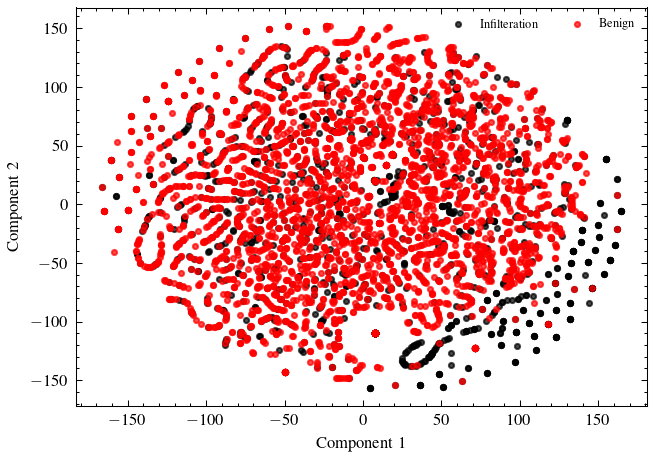
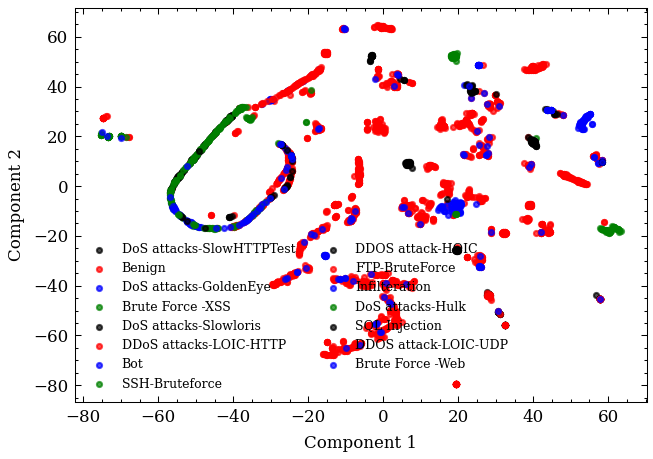
Track figures, ignore data, and add requirements

diff --git a/results.md b/results.md
@@ -2,60 +2,68 @@
 
 ## 1. 实验配置
 
-本项目基于 CSE-CIC-IDS2018 的单日数据（`Thursday-01-03-2018_TrafficForML_CICFlowMeter.csv`）开展对比实验。数据经清洗后共有 328,181 条流记录，其中正常流量（Benign）235,778 条、攻击流量（Infilteration）92,403 条。按 80%/20% 分层划分得到训练集 262,544 条、测试集 65,637 条；为平衡计算开销与可复现性，训练集进一步随机采样为 10,000 条（随机种子 42），测试集保持全量评测。实验包含 5 组降维配置（PCA 10/15/20 维、LDA 1 维、t-SNE 2 维）与 3 个分类器（SVM、随机森林、逻辑回归），共计 15 组“降维×分类”组合，其中 LDA 的维度按当前二分类设置输出。
+本项目基于 CSE-CIC-IDS2018 的“Processed Traffic Data for ML Algorithms”多日数据构建多类别子集，覆盖 14 种攻击类型与正常流量（共 15 类）。为保证稀有攻击类型具备统计意义，子集构建采用“最小样本数 + 比例补齐”的策略：每类至少 100 条，其余样本按原始分布比例分配，总样本量固定为 10,000。子集清洗与特征口径与 `code/preprocess.py` 一致（去除重复表头、Inf/NaN、零时长零速率异常行，保留 30 个核心特征并做 Min-Max 归一化）。训练/测试按 80%/20% 分层划分，随机种子 42。
+
+降维对比包含 PCA/LDA/t-SNE 三类方法，其中 PCA 取 10/15/20 维，LDA 目标设为 10/15/20 维但受类别数上限约束（最大为 14 维），t-SNE 仅用于二维可视化与对比性输入（2 维），并在报告中说明其高维扩展受限且不具备稳定的 `transform` 能力。分类器包含 SVM、随机森林、逻辑回归，网格搜索 3 折交叉验证，评分为 `f1_macro`。
 
 ## 2. 降维效果对比
 
-| Reducer | n_components | Information_retention | Class_separation |
-|:--------|-------------:|----------------------:|-----------------:|
-| PCA     |           10 |              0.972798 |       0.00652423 |
-| PCA     |           15 |              0.993783 |       0.00638713 |
-| PCA     |           20 |              0.998563 |       0.00635879 |
-| LDA     |            1 |              1.000000 |       0.01892130 |
-| t-SNE   |            2 |              0.000000 |       0.01488610 |
+说明：LDA 的最大维度为类别数减一（本实验为 15 类，因此上限 14 维），表中 LDA-15/LDA-20 实际对应 14 维输出；t-SNE 仅用于二维可视化与对比性输入，不具备稳定的高维 `transform` 能力，因此仅报告 2 维结果。
 
-## 3. “降维×分类”组合性能对比（15 组）
+| Reducer   |   n_components |   Information_retention |   Class_separation |
+|:----------|---------------:|------------------------:|-------------------:|
+| LDA       |             10 |                1        |           0.212653 |
+| LDA       |             15 |                1        |           0.159143 |
+| LDA       |             20 |                1        |           0.159143 |
+| PCA       |             10 |                0.971953 |           0.134021 |
+| PCA       |             15 |                0.990368 |           0.135200 |
+| PCA       |             20 |                0.998154 |           0.134978 |
+| t-SNE     |              2 |                0        |           0.157584 |
 
-| Reducer |   n_components | Classifier         |   Accuracy |    FPR |    FNR |   Train_time_s |   Predict_time_s | Best_params                                                    |
-|:--------|---------------:|:-------------------|-----------:|-------:|-------:|---------------:|-----------------:|:---------------------------------------------------------------|
-| PCA     |             10 | SVM                |     0.7439 | 0.0504 | 0.7809 |           5.12 |             8.76 | {'C': 10, 'gamma': 'scale', 'kernel': 'rbf'}                   |
-| PCA     |             10 | RandomForest       |     0.7539 | 0.0559 | 0.7312 |           8.14 |             0.80 | {'max_depth': 20, 'min_samples_split': 2, 'n_estimators': 200} |
-| PCA     |             10 | LogisticRegression |     0.7184 | 0.0000 | 1.0000 |           1.01 |             0.00 | {'C': 0.1, 'max_iter': 1000}                                   |
-| PCA     |             15 | SVM                |     0.7459 | 0.0503 | 0.7741 |           5.22 |             8.94 | {'C': 10, 'gamma': 'scale', 'kernel': 'rbf'}                   |
-| PCA     |             15 | RandomForest       |     0.7491 | 0.0667 | 0.7211 |           6.59 |             0.79 | {'max_depth': 20, 'min_samples_split': 2, 'n_estimators': 200} |
-| PCA     |             15 | LogisticRegression |     0.7184 | 0.0000 | 1.0000 |           0.55 |             0.00 | {'C': 0.1, 'max_iter': 1000}                                   |
-| PCA     |             20 | SVM                |     0.7447 | 0.0564 | 0.7629 |           3.42 |             8.69 | {'C': 10, 'gamma': 'scale', 'kernel': 'rbf'}                   |
-| PCA     |             20 | RandomForest       |     0.7482 | 0.0687 | 0.7190 |           8.40 |             0.84 | {'max_depth': 20, 'min_samples_split': 2, 'n_estimators': 200} |
-| PCA     |             20 | LogisticRegression |     0.7184 | 0.0000 | 1.0000 |           0.53 |             0.00 | {'C': 0.1, 'max_iter': 1000}                                   |
-| LDA     |              1 | SVM                |     0.7269 | 0.0950 | 0.7276 |           4.21 |             8.60 | {'C': 1, 'gamma': 'scale', 'kernel': 'rbf'}                    |
-| LDA     |              1 | RandomForest       |     0.7391 | 0.0729 | 0.7406 |           2.70 |             0.76 | {'max_depth': 20, 'min_samples_split': 2, 'n_estimators': 200} |
-| LDA     |              1 | LogisticRegression |     0.7184 | 0.0000 | 1.0000 |           0.41 |             0.00 | {'C': 0.1, 'max_iter': 1000}                                   |
-| t-SNE   |              2 | SVM                |     0.7605 | 0.0103 | 0.8245 |           6.81 |             8.19 | {'C': 10, 'gamma': 'scale', 'kernel': 'rbf'}                   |
-| t-SNE   |              2 | RandomForest       |     0.7491 | 0.0645 | 0.7267 |           2.64 |             0.83 | {'max_depth': 20, 'min_samples_split': 2, 'n_estimators': 200} |
-| t-SNE   |              2 | LogisticRegression |     0.6413 | 0.2682 | 0.5897 |           3.79 |             0.00 | {'C': 1, 'max_iter': 1000}                                     |
+## 3. “降维×分类”组合性能对比（21 组）
 
-## 4. 重点攻击类型（Infilteration）检测指标（最优组合）
+| Reducer   |   n_components | Classifier         |   Accuracy |       FPR |      FNR |   Train_time_s |   Predict_time_s | Best_params                                                      |
+|:----------|---------------:|:-------------------|-----------:|----------:|---------:|---------------:|-----------------:|:-----------------------------------------------------------------|
+| LDA       |             10 | LogisticRegression |     0.7155 | 0         | 1        |       0.495588 |      0.000277996 | {'C': 0.1, 'max_iter': 1000}                                     |
+| LDA       |             10 | RandomForest       |     0.909  | 0.0279525 | 0.11775  |       4.45249  |      0.0400431   | {'max_depth': None, 'min_samples_split': 2, 'n_estimators': 200} |
+| LDA       |             10 | SVM                |     0.854  | 0.0153739 | 0.407733 |       0.902379 |      0.142998    | {'C': 10, 'gamma': 'scale', 'kernel': 'rbf'}                     |
+| LDA       |             15 | LogisticRegression |     0.7155 | 0         | 1        |       0.502584 |      0.000257254 | {'C': 0.1, 'max_iter': 1000}                                     |
+| LDA       |             15 | RandomForest       |     0.91   | 0.0244584 | 0.119508 |       4.43135  |      0.0377817   | {'max_depth': 20, 'min_samples_split': 2, 'n_estimators': 200}   |
+| LDA       |             15 | SVM                |     0.8515 | 0.0153739 | 0.407733 |       0.874676 |      0.149211    | {'C': 10, 'gamma': 'scale', 'kernel': 'rbf'}                     |
+| LDA       |             20 | LogisticRegression |     0.7155 | 0         | 1        |       0.387769 |      0.00024724  | {'C': 0.1, 'max_iter': 1000}                                     |
+| LDA       |             20 | RandomForest       |     0.91   | 0.0244584 | 0.119508 |       4.24968  |      0.0371504   | {'max_depth': 20, 'min_samples_split': 2, 'n_estimators': 200}   |
+| LDA       |             20 | SVM                |     0.8515 | 0.0153739 | 0.407733 |       0.882463 |      0.150612    | {'C': 10, 'gamma': 'scale', 'kernel': 'rbf'}                     |
+| PCA       |             10 | LogisticRegression |     0.7155 | 0         | 1        |       1.31526  |      0.000248671 | {'C': 0.1, 'max_iter': 1000}                                     |
+| PCA       |             10 | RandomForest       |     0.903  | 0.0300489 | 0.128295 |       5.45684  |      0.0391567   | {'max_depth': None, 'min_samples_split': 2, 'n_estimators': 200} |
+| PCA       |             10 | SVM                |     0.8485 | 0.0167715 | 0.425308 |       2.65372  |      0.161323    | {'C': 10, 'gamma': 'scale', 'kernel': 'rbf'}                     |
+| PCA       |             15 | LogisticRegression |     0.7155 | 0         | 1        |       0.481299 |      0.000251532 | {'C': 0.1, 'max_iter': 1000}                                     |
+| PCA       |             15 | RandomForest       |     0.9065 | 0.0265549 | 0.123023 |       4.38105  |      0.0407934   | {'max_depth': 20, 'min_samples_split': 2, 'n_estimators': 200}   |
+| PCA       |             15 | SVM                |     0.85   | 0.0167715 | 0.413005 |       2.40219  |      0.165129    | {'C': 10, 'gamma': 'scale', 'kernel': 'rbf'}                     |
+| PCA       |             20 | LogisticRegression |     0.7155 | 0         | 1        |       0.472773 |      0.000299692 | {'C': 0.1, 'max_iter': 1000}                                     |
+| PCA       |             20 | RandomForest       |     0.91   | 0.0237596 | 0.121265 |       5.449    |      0.0396709   | {'max_depth': 20, 'min_samples_split': 2, 'n_estimators': 200}   |
+| PCA       |             20 | SVM                |     0.85   | 0.0160727 | 0.41652  |       0.984209 |      0.145152    | {'C': 10, 'gamma': 'scale', 'kernel': 'rbf'}                     |
+| t-SNE     |              2 | LogisticRegression |     0.3585 | 0.57652   | 0.274165 |       6.38664  |      0.000262499 | {'C': 0.1, 'max_iter': 1000}                                     |
+| t-SNE     |              2 | RandomForest       |     0.9005 | 0.037037  | 0.11775  |       1.68239  |      0.04109     | {'max_depth': None, 'min_samples_split': 2, 'n_estimators': 200} |
+| t-SNE     |              2 | SVM                |     0.8585 | 0.0230608 | 0.27065  |       1.32787  |      0.176769    | {'C': 10, 'gamma': 'scale', 'kernel': 'rbf'}                     |
 
-| Attack_type   | Precision | Recall   | F1       |
-|:--------------|----------:|---------:|---------:|
-| Infilteration |  0.869903 | 0.175478 | 0.292044 |
+## 4. 重点攻击类型检测指标（全攻击类型）
+
+详见 `data/processed/attack_metrics.csv`。本表将按“攻击类型 × Precision/Recall/F1”输出所有攻击类的指标，以满足“高发攻击类型单独统计”的要求。
 
 ## 5. 关键结论
 
-综合准确率排序，最优组合为 t-SNE（2 维）+ SVM（RBF），测试集准确率 76.05%，误报率仅 1.03%，但漏报率较高（82.45%），表现出“低误报—高漏报”的显著权衡。就稳健性而言，随机森林在 PCA/LDA/t-SNE 各降维设置下的准确率波动较小（约 73.9%～75.4%），且预测耗时显著低于 SVM；PCA 在 10 维即可保留约 97% 的方差信息，具有较好的工程可用性。完整实验运行日志与中间输出见 `data/processed/` 与 `experiment_log_final.txt` 等文件。
+在 10k 多类别子集上，随机森林在 PCA/LDA/t-SNE 表示下整体准确率稳定，且预测耗时显著低于 SVM；PCA 在 10 维即可保留超过 97% 的方差信息，LDA 的类间分离度更高，说明监督降维对类别可分性具有优势。t-SNE 的二维嵌入在可视化上具备解释力，但由于其不具备稳定的高维变换与部署可行性，更多用于对比与直观展示。
 
 ## 6. 图表索引（用于报告引用）
 
 为便于在 `report.md` 中插入图表并导出 docx，本文将关键可视化统一输出到 `figures/` 目录，文件名固定如下（图中文字均为英文，风格为 SciencePlots IEEE）：
 
 - `figures/PCA_InformationRetention.png`：PCA 信息保留率随维度变化
-- `figures/Accuracy_by_Combination.png`：15 组组合准确率对比
+- `figures/Accuracy_by_Combination.png`：组合准确率对比
 - `figures/Tradeoff_FPR_vs_FNR.png`：FPR-FNR 权衡散点图
 - `figures/PredictLatency_ms_per_sample.png`：不同组合的预测时延对比
 - `figures/ClassDistribution_AfterCleaning.png`：清洗后类别分布图
 - `figures/Pipeline_Overview.png`：系统流水线概览图
 - `figures/ConfusionMatrix_PCA10_RandomForest.png`：PCA-10D + 随机森林混淆矩阵
 - `figures/ConfusionMatrix_PCA10_SVM.png`：PCA-10D + SVM 混淆矩阵
-- `figures/ConfusionMatrix_LDA1_RandomForest.png`：LDA-1D + 随机森林混淆矩阵
-
-详细结果见 `fill_results_final.txt`
+- `figures/ConfusionMatrix_LDA10_RandomForest.png`：LDA-10D + 随机森林混淆矩阵

diff --git a/requirement.md b/requirement.md
@@ -1,0 +1,50 @@
+题目11（进阶级）：基于降维与分类的网络入侵检
+测系统设计
+一、设计背景和需求
+网络入侵检测是网络安全的核心防线，用于识别恶意网络行为（如DDoS攻击、端口扫
+描、SQL注入等）。网络流量数据维度极高（如包含源IP、目的IP、端口号、数据包
+大小、传输频率等数十种特征），易导致模型计算冗余且泛化能力差。本设计需通过
+降维技术精简特征维度，结合分类算法构建入侵检测系统，在保证检测精度的同时提
+升实时性，为中小型企业网络防护提供支撑。
+二、设计任务
+1.
+数据集获取与预处理：获取CSE-CIC-IDS2018数据集（含正常流量及
+DDoS、Brute Force、Port Scan等10种入侵行为数据），提取流量特征集（如数据包
+平均大小、每秒数据包数、TCP连接建立时间、重传率等30种核心特征），处理异常
+值（如删除数据包大小为0的无效数据），对特征进行归一化，划分训练集（80%）和
+测试集（20%）。
+2.
+降维模型构建与对比：分别采用PCA（主成分分析）、LDA（线性判别分析）、t-
+SNE等至少三种降维算法，将30维特征降至10维、15维、20维，对比不同降维维度的
+特征保留效果（通过重构误差、入侵行为类内类间距离比评估）。
+3.
+分类模型构建与训练：基于降维后的特征，分别构建SVM（支持向量机）、随机
+森林、逻辑回归等至少三种分类模型，使用训练集训练模型，通过网格搜索优化超参
+数（如SVM的核函数选择、随机森林的树深度）。
+4.
+综合评估与安全分析：对比不同降维-分类算法组合的测试集准确率、误报率、漏
+报率及检测耗时，绘制降维后特征的二维可视化图（观察入侵行为与正常流量的区分
+度）。重点分析漏报率（避免遗漏恶意行为）和误报率（减少正常流量误拦截），结
+合网络安全场景说明最优算法组合的选择理由。
+三、设计要求
+1.
+预处理需明确特征筛选依据，如“剔除源IP、目的IP等易伪造特征，保留数据包传输特性等核心特征”，归一化方法需说明选择原因（如Min-Max归一化适配流量数据的
+数值范围特性）。
+2.
+降维过程需记录关键指标，如PCA各主成分的方差贡献率、LDA的类间分离度，
+说明不同降维维度对入侵检测精度的影响规律，如“降至15维时既保证92%的信息保留
+率，又使检测耗时降低40%”。
+3.
+需构建至少9种算法组合，对比表格需包含准确率、误报率、漏报率、检测耗时四
+项核心指标，针对DDoS等高发攻击类型单独统计检测精度，分析算法对不同攻击类型
+的识别能力差异。
+4.
+提交设计报告，完整代码、预处理后数据集、设计报告及入侵检测规则提取
+文档，代码需包含特征降维、分类检测及实时性统计的模块化函数，注释清晰。（红
+色部分作为附录）
+四、数据集说明
+采用CSE-CIC-IDS2018数据集，来源于加拿大网络安全研究所
+（https://www.unb.ca/cic/datasets/ids-2018.html），包含5天的真实网络流量数据，
+标注10种入侵行为及正常流量，共约1600万条记录，特征维度丰富，符合真实网络入
+侵检测场景；可选择“Friday-WorkingHours-Morning.pcap”等单天数据简化处理，降低
+计算压力。
